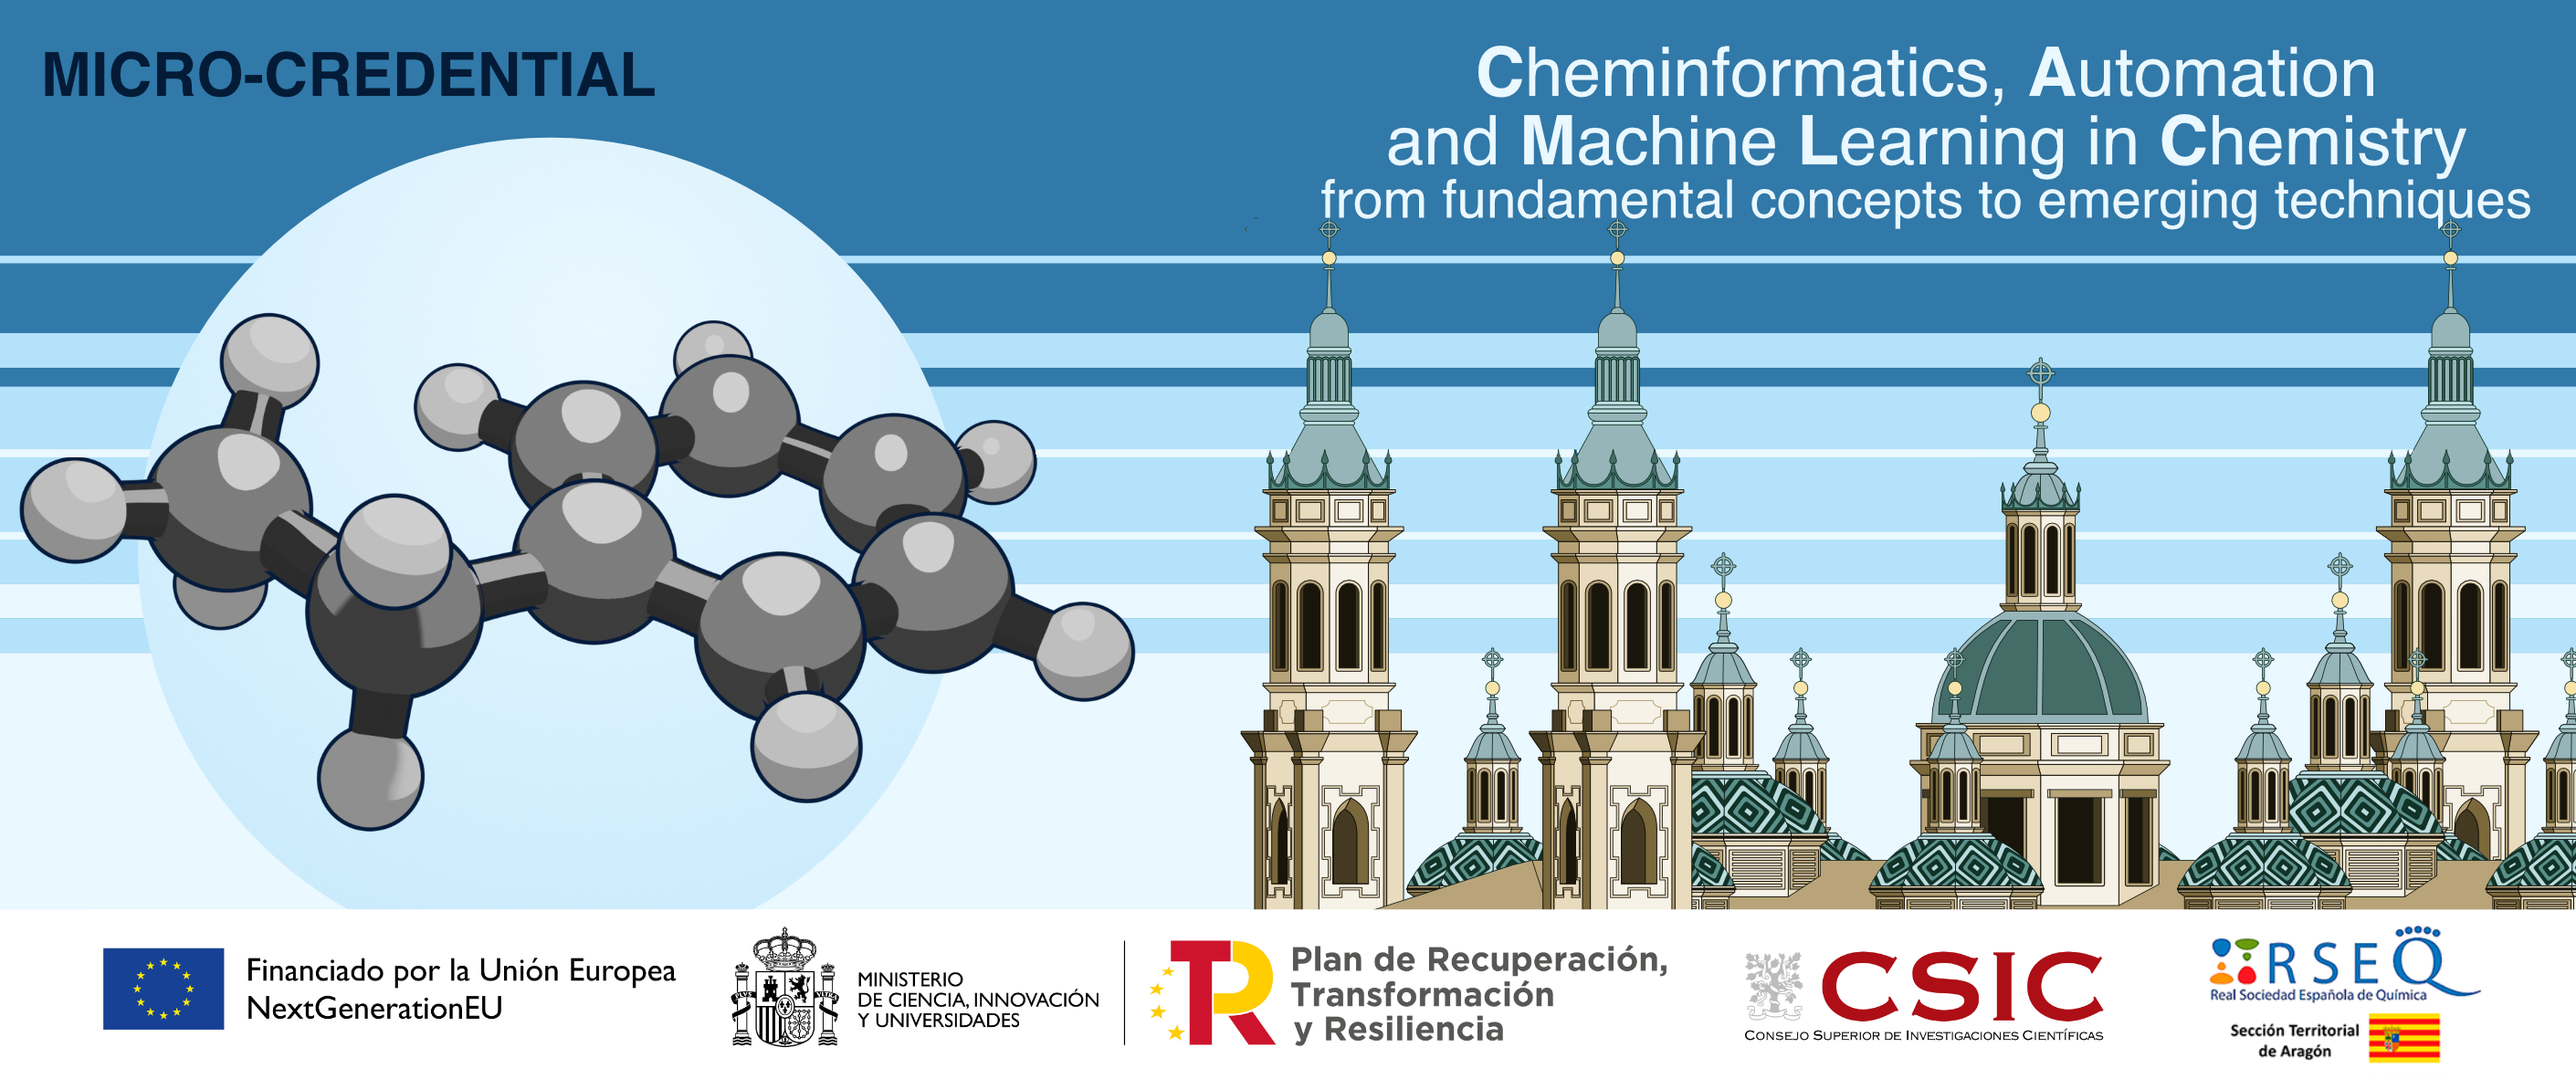
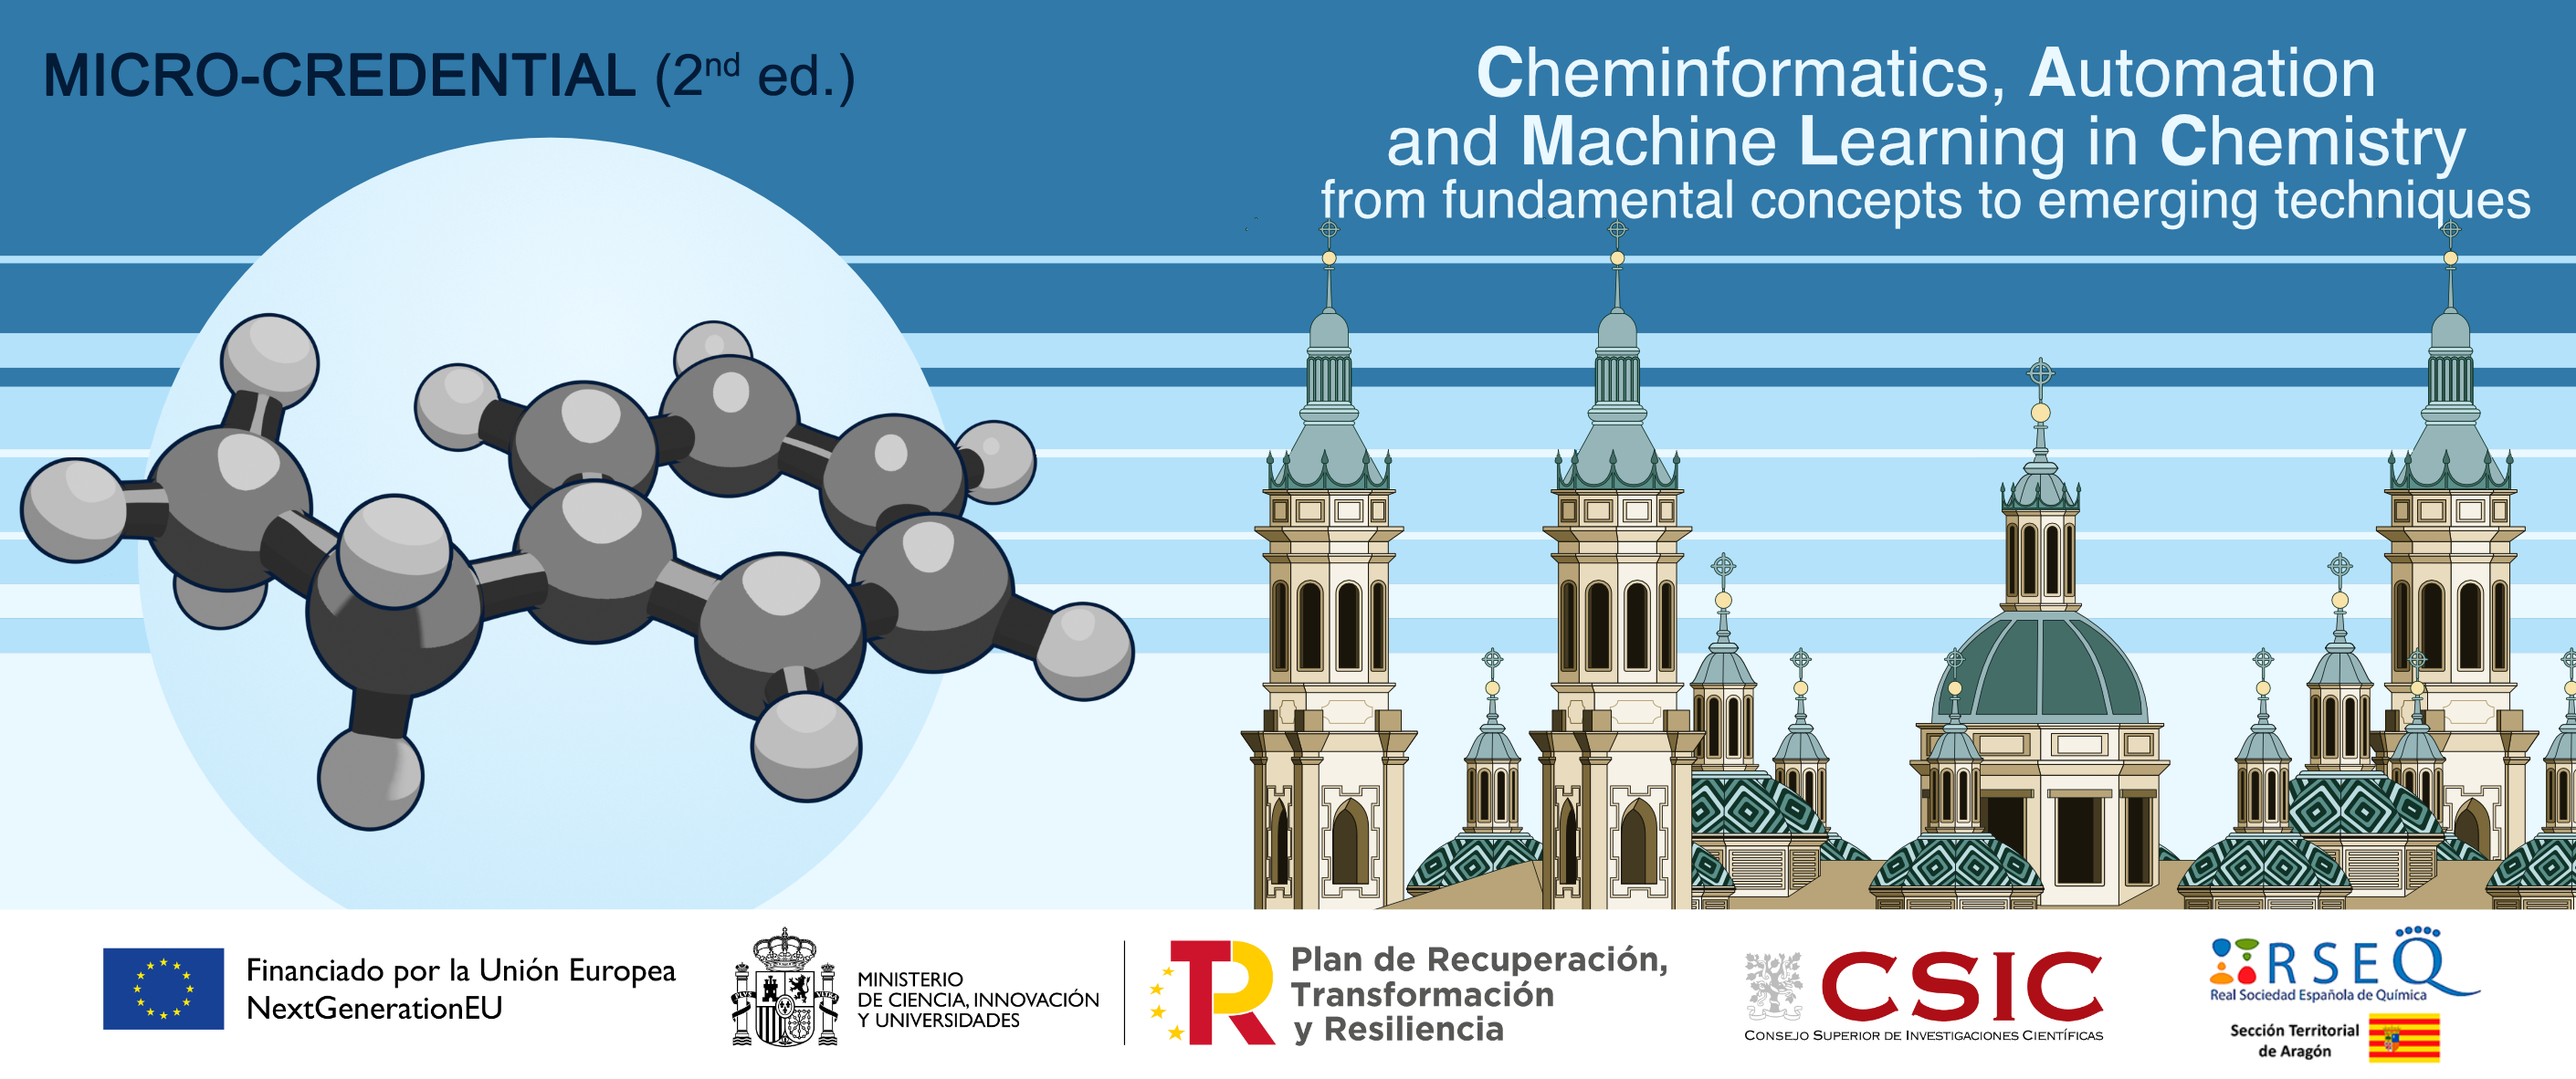
1. Update 2nd ed

Changed region(s): [[0.0, 0.0305, 0.3431, 0.0914]]

diff --git a/pages/about.md b/pages/about.md
@@ -8,7 +8,7 @@ position: 1
 ### The CAMLC25 micro-credential
 <p align="justify">
 
-The "Cheminformatics, Automation and Machine Learning in Chemistry: from fundamental concepts to emerging techniques" (or CAMLC for short) micro-credential aims to introduce attendees to the use and development of emerging digital technologies in chemistry. Initially, attendees will review various functions of Python, particularly those related to modules commonly used in cheminformatics. Once users are familiar with Python environments and Jupyter Notebooks, machine learning and data science will be introduced, with a focus on state-of-the-art implementations in the field of chemistry. It is particularly relevant for attendees who work with the following:</p>
+The second edition of the "Cheminformatics, Automation and Machine Learning in Chemistry: from fundamental concepts to emerging techniques" (or CAMLC for short) micro-credential aims to introduce attendees to the use and development of emerging digital technologies in chemistry. Initially, attendees will review various functions of Python, particularly those related to modules commonly used in cheminformatics. Once users are familiar with Python environments and Jupyter Notebooks, machine learning and data science will be introduced, with a focus on state-of-the-art implementations in the field of chemistry. It is particularly relevant for attendees who work with the following:</p>
 
 * Homogeneous or finite systems<br>
 <i>Note: the workshop is not recommended for researchers working on PBC-materials or MD-enzymes)</i><br>
